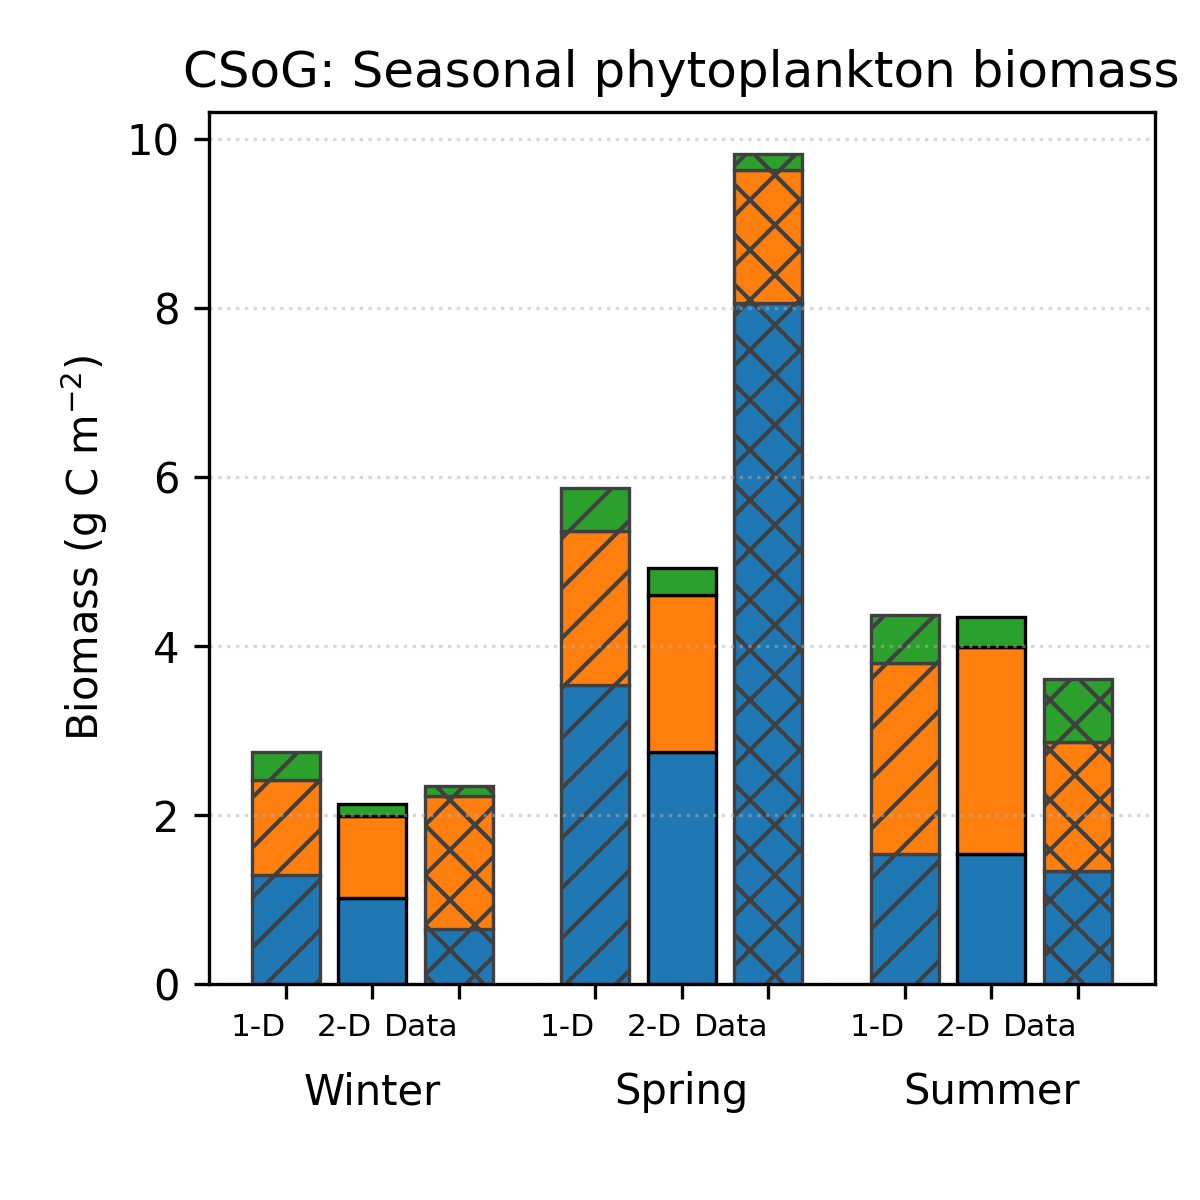
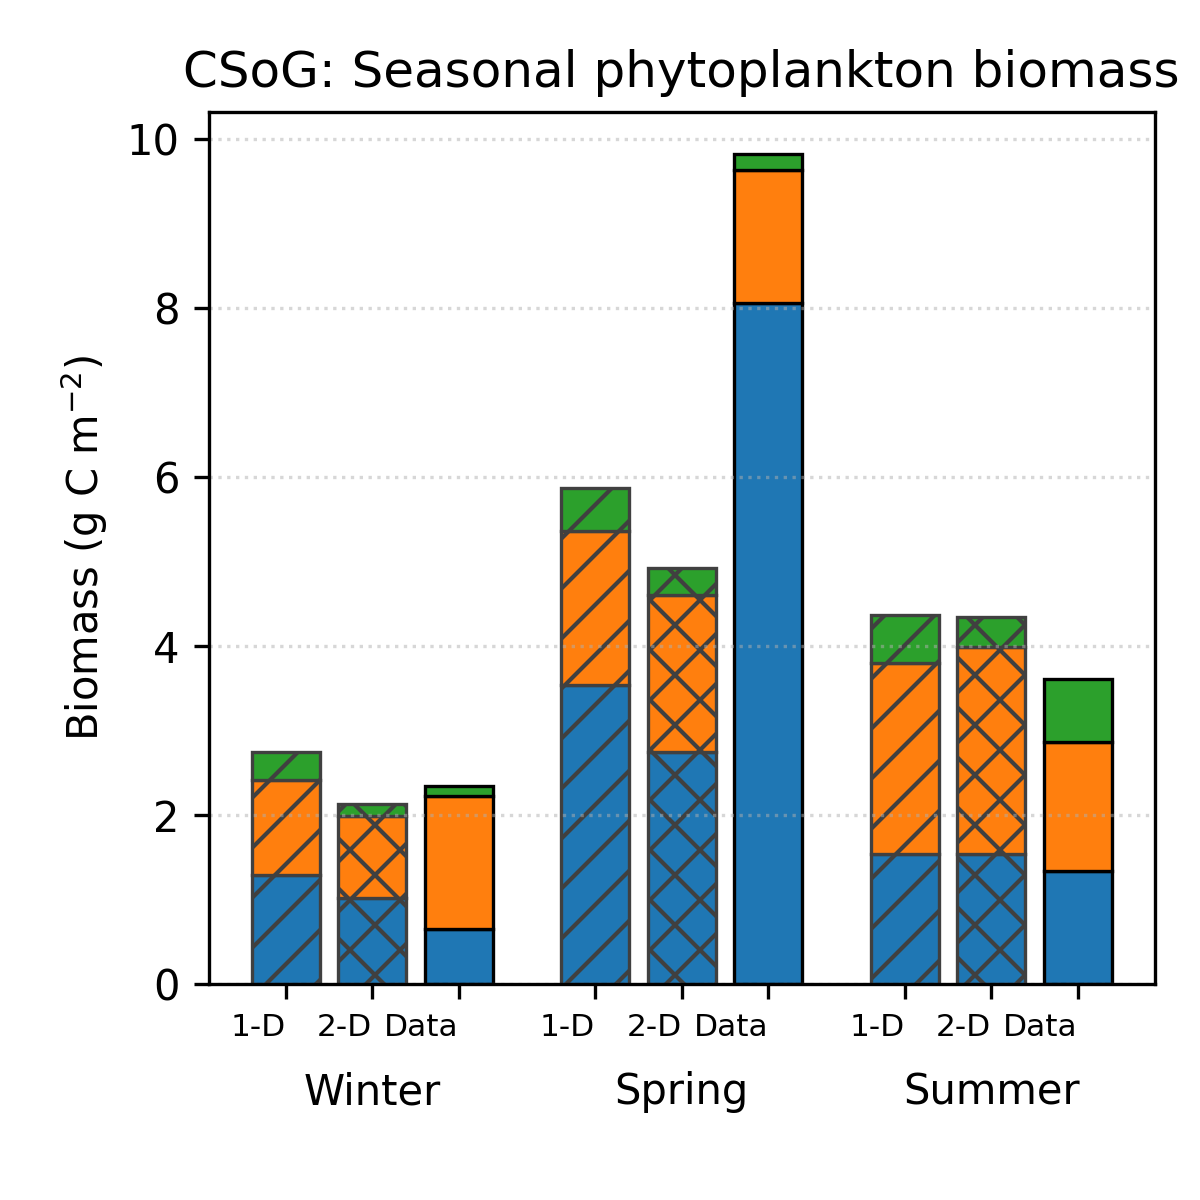
new hatches

Changed region(s): [[0.5242, 0.1233, 0.6783, 0.8325], [0.7708, 0.4933, 0.925, 0.8325], [0.2775, 0.6475, 0.4317, 0.8325]]

diff --git a/scripts/PublicationScripts/ecospace_eval_2a_mcewan_phyto_seas.py b/scripts/PublicationScripts/ecospace_eval_2a_mcewan_phyto_seas.py
@@ -317,14 +317,14 @@ def plot_stacked_three_source(df_long: pd.DataFrame, domain_label: str, out_png:
 
     source_hatch = {
         "1-D": "//",
-        "2-D": "",
-         "Data": "xx"
+        "2-D": "xx",
+         "Data": ""
     }
 
     source_edge = {
         "1-D": "0.25",
-        "2-D": "black",
-        "Data": "0.25",
+        "2-D": "0.25",
+        "Data": "black",
     }
 
     bar_width = 0.22
